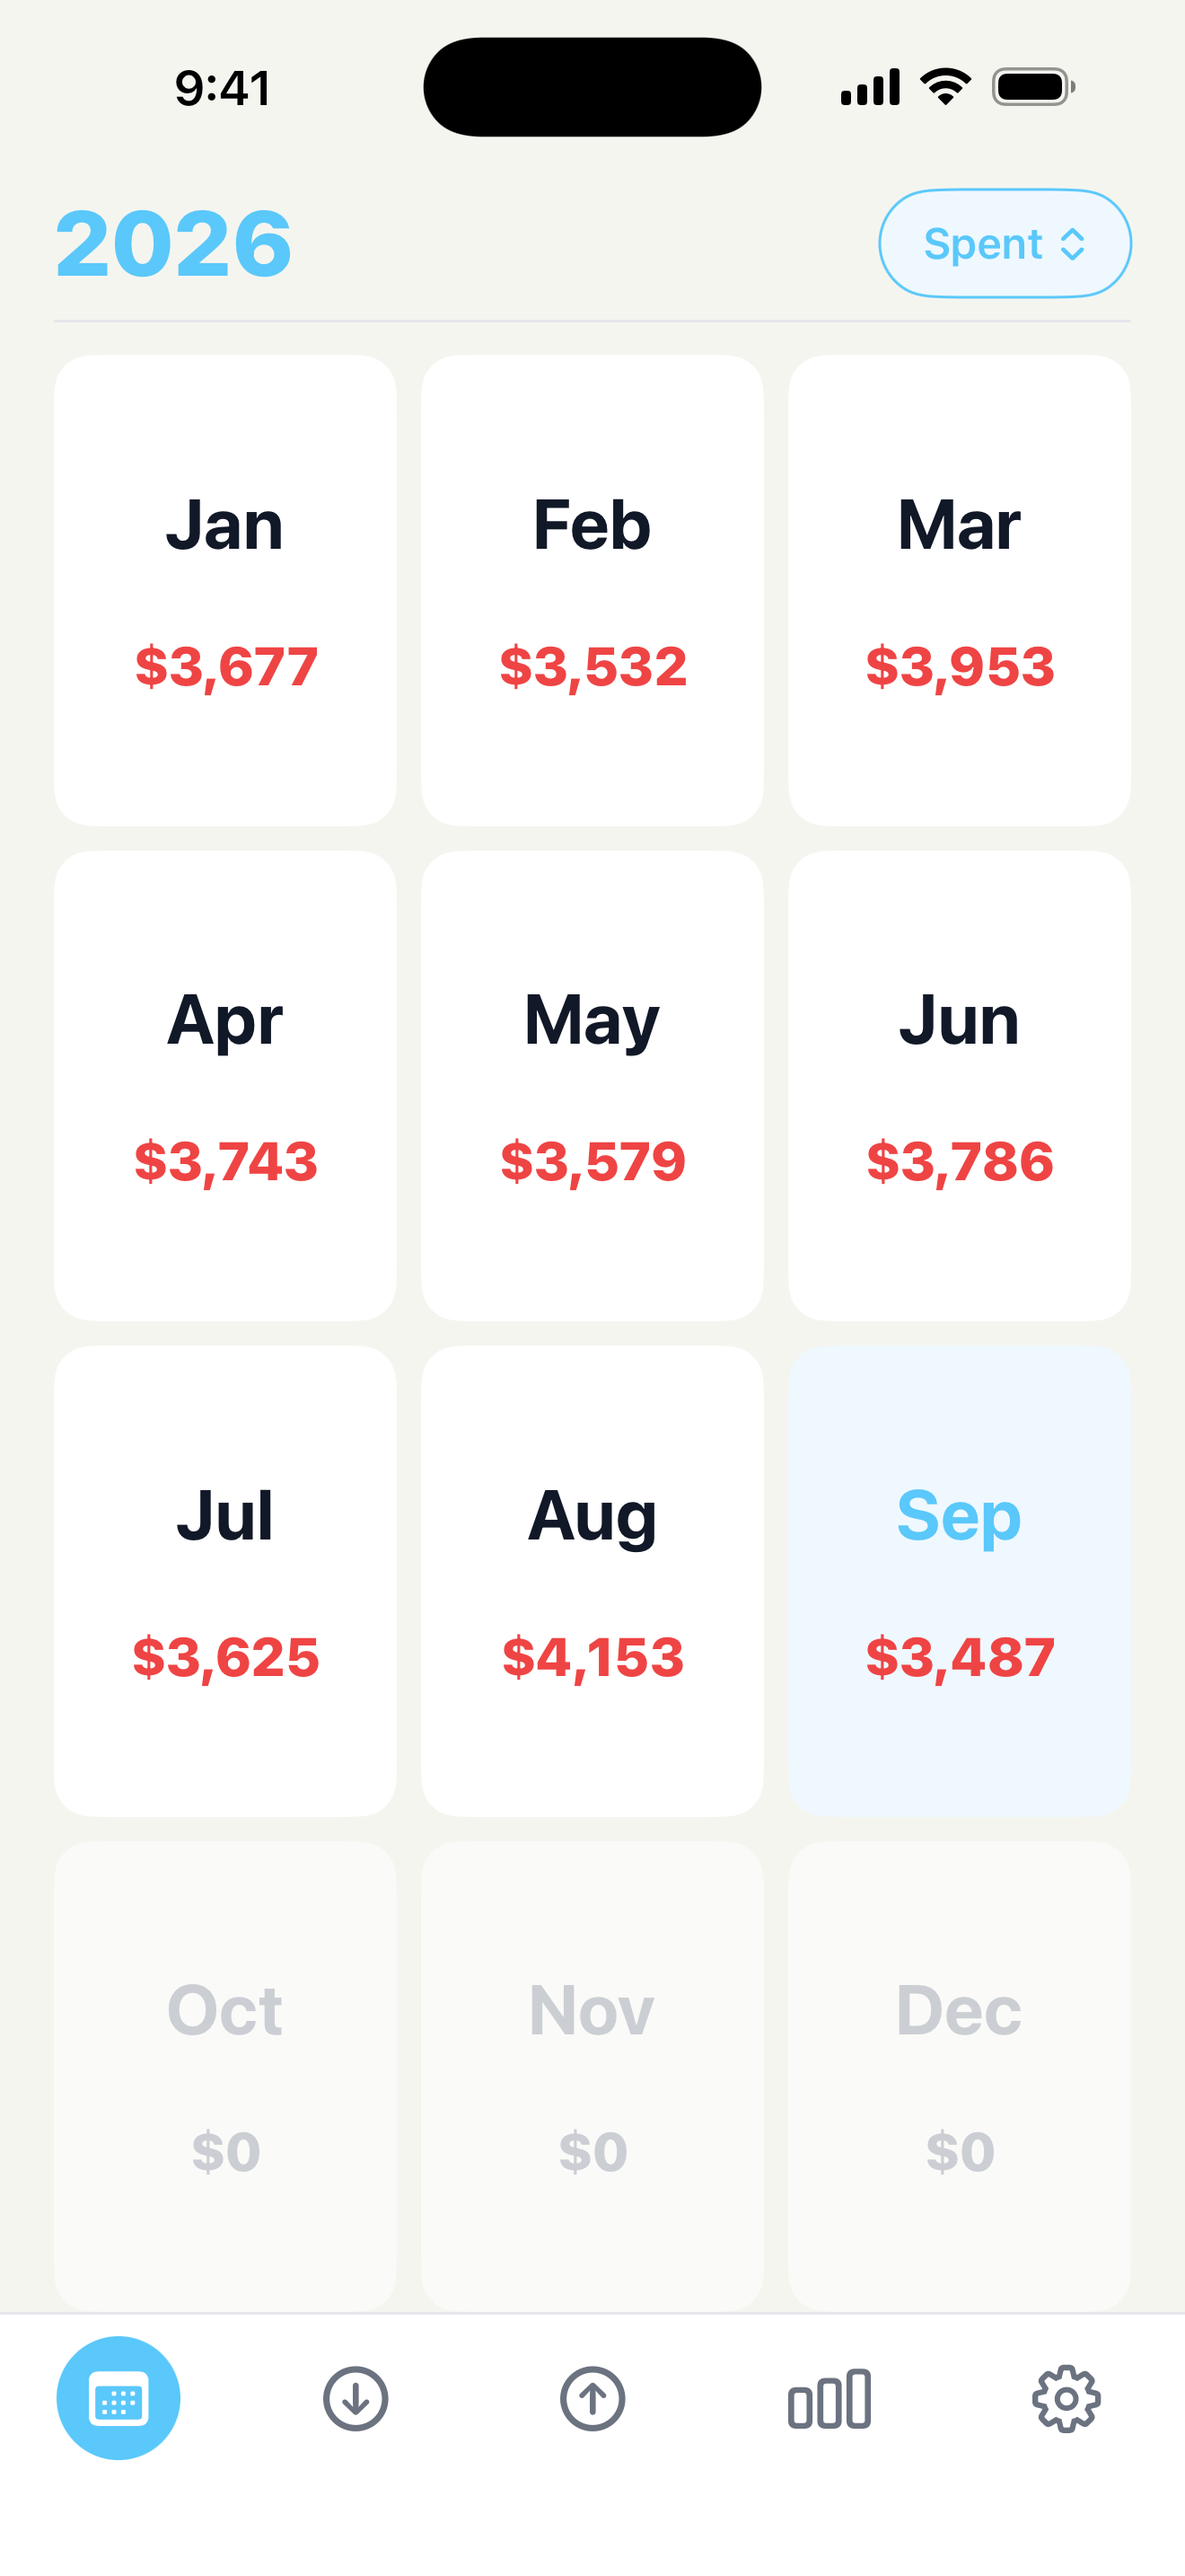
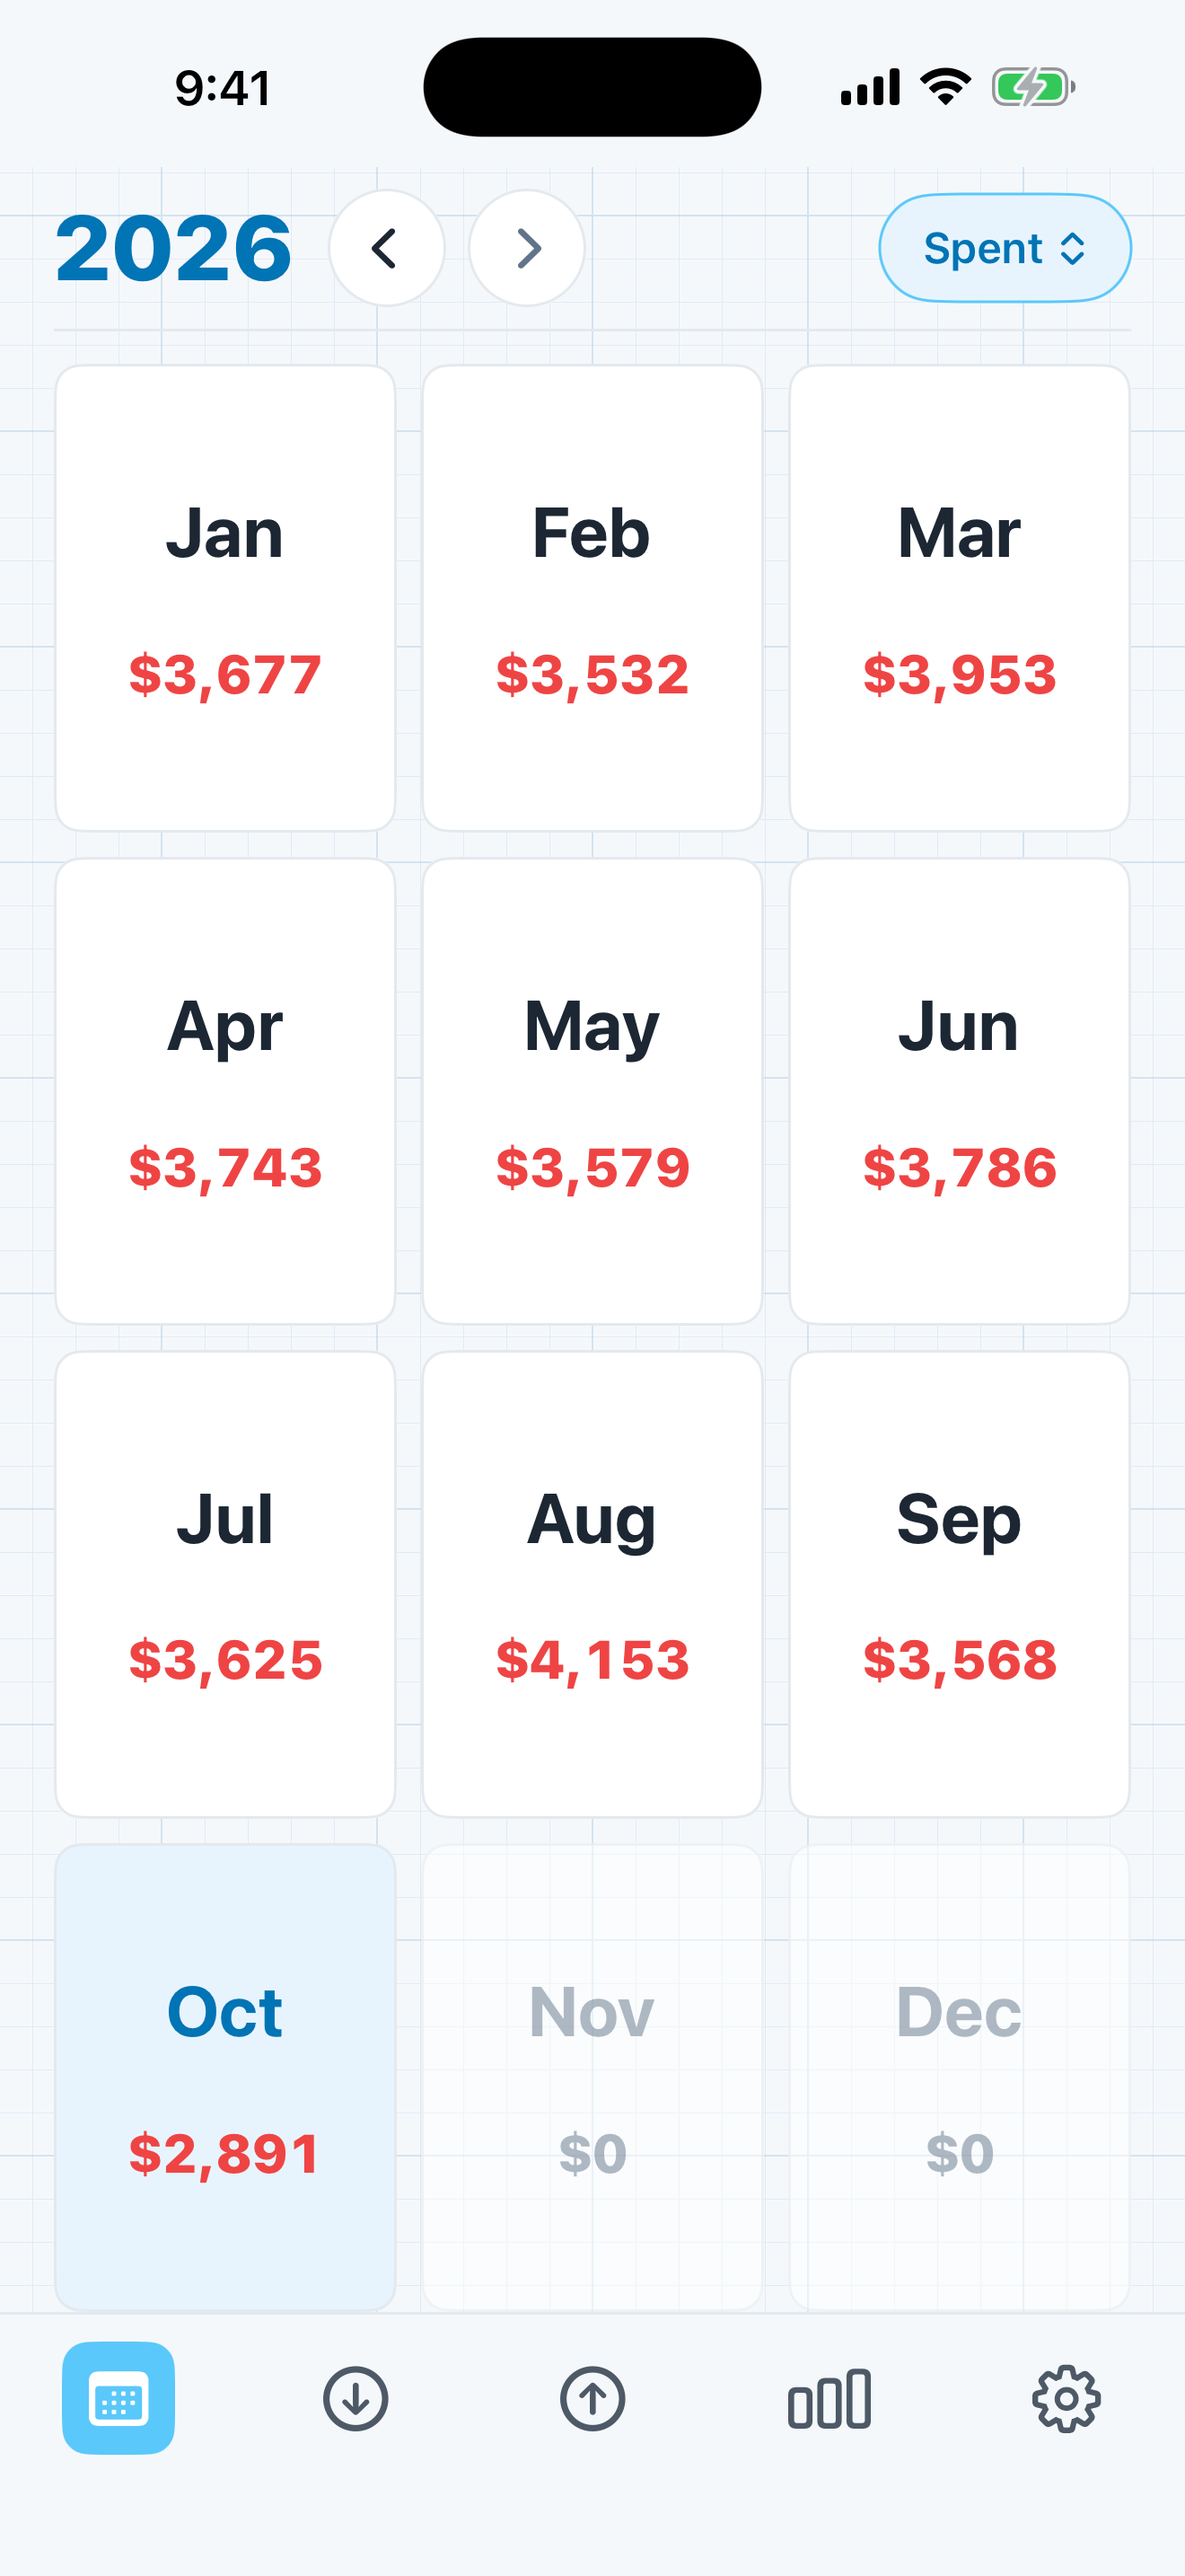
Swap in the October 2026 Simply Spend screenshots
Overview with the weekly pace chart, the year view (kept in the raised
middle slot), and the by-category chart. Re-encoded to drop metadata.

diff --git a/src/data/project-screenshot-alts.ts b/src/data/project-screenshot-alts.ts
@@ -1,9 +1,10 @@
 /** Keyed by "<project id>/<filename without extension>". */
 export const projectScreenshotAlts: Record<string, string> = {
-  "simply-spend/01-dashboard":
-    "Simply Spend's monthly dashboard, showing spend-to-date and a weekly running-total chart",
+  "simply-spend/01-overview":
+    "Simply Spend's month overview: spent so far, and this week's running total charted against a usual week",
   "simply-spend/02-calendar": "Simply Spend's year view, with total spending for each month",
-  "simply-spend/03-category-breakdown": "Simply Spend's spending-by-category breakdown for the month",
+  "simply-spend/03-category-chart":
+    "Simply Spend's by-category chart, with fixed costs excluded, sizing each category by its share of the month's spending",
   "rubric/01-goals": "RuBric's goals screen, with each goal drawn as a brick wall of its tasks",
   "rubric/02-goal-detail": "RuBric's goal detail, with a timeline from start to target date",
   "rubric/03-today":
